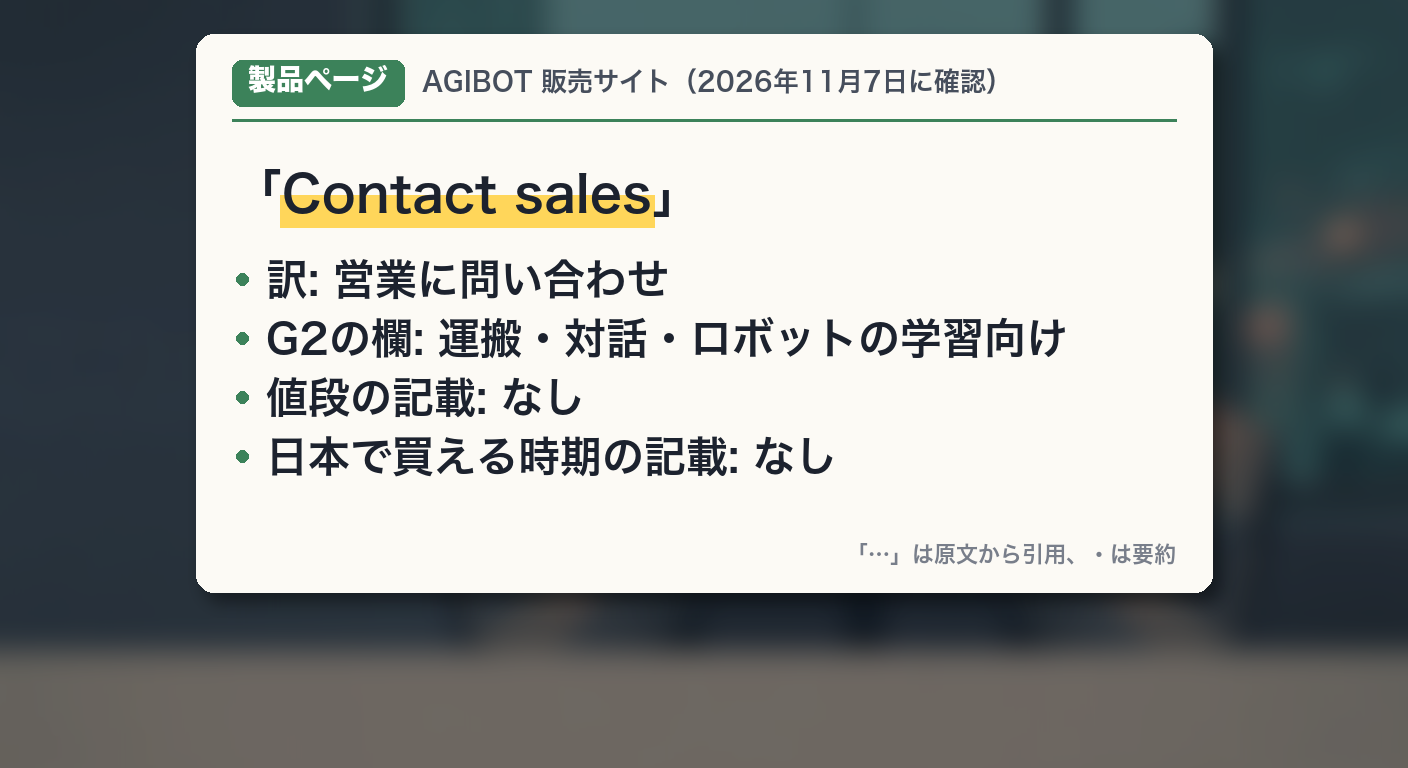
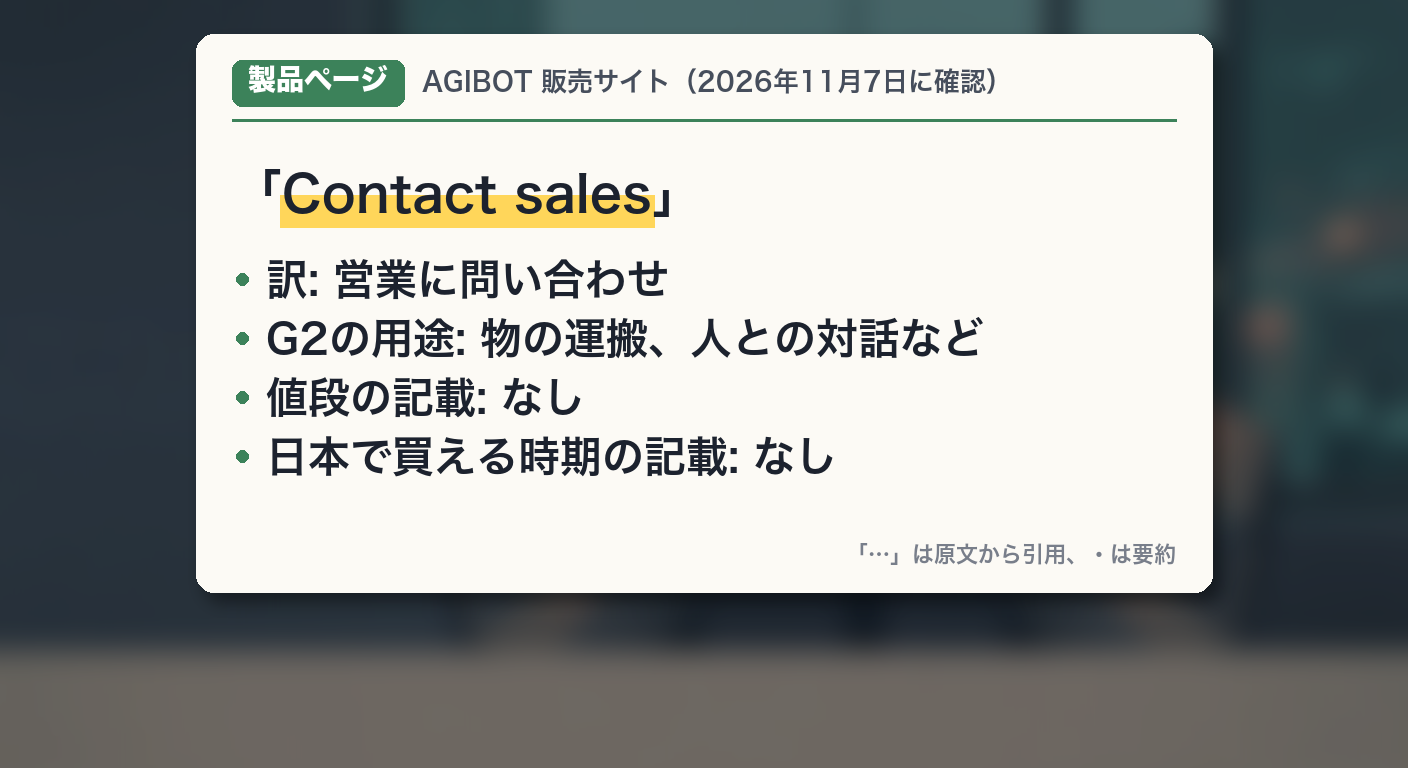
kl053: 初見レビュー合格（2周）、パッケージ評価、進捗

Changed region(s): [[0.25, 0.4062, 0.75, 0.4688]]

diff --git a/script_prep/kl053.md b/script_prep/kl053.md
@@ -173,3 +173,24 @@
 14. 同じ台詞の2回: ○（上の12で解消。「目指す」の言い切りは無い）
 15. 1台詞に3つ以上の話: 直した（S07 の件数と合格を分け、S08 の審査役の3つの試しを2行に分けて間に大輔の相づち）。S14 行9（大輔の理由）は壁2つ＋手応え＋仕組みで長いが、判定の理由をひとまとまりで言う必要があり、初見レビューで見てもらう
 16. 足した台詞が通じるか・資料の範囲: ○（「人と比べた数字も出てこない」は C を確認、「夜に働く人を集めるのに苦労している店は多い」は「資料の外の話だけど」と明示）
+
+## 14. 初見レビュー1周目を受けた直し（2026-11-07、レビュー `/private/tmp/claude-503/-Users-claude-kagaku-life/61240068-1c9b-44cb-b6a8-91cc7a14e81b/scratchpad/kl053_beginner_review_r1.md`、致命的0・直す5・できれば9）
+
+直したシーン: S03（予告）、S05、S06、S07、S08、S09、S10、S11、S12、S13（台詞とカード）、S14、Shorts 3カット目
+
+- 直す(1) 審査役の矛盾: S07 の「評価をしたのが誰かは書いていない」を消し、S08 冒頭を「報告には、審査役の2人が〜試した、ともある。その2人がどこの誰かも、最後の評価を誰がしたかも、書いていない」に（原典: 「Two evaluators also conducted rounds of practical tests」。最終評価をした者は書いていない）
+- 直す(2) 「催し」: 「AGIBOTが自分で開いた、新しい技術を見せる催しの、最後の出し物。会社の見せ場でもある」（原典: 「conclusion of AGIBOT's AI WAVE technology showcase」）
+- 直す(3) 沙織の認め方: S07 を「基準5つ → 結果4台合格・2台は一部未達 → 沙織『その2台は途中で止まったの？』→ 大輔『報告にあるのは、基準の一部を満たせなかった、ということだけ。止まったのか、出来が足りなかったのかは、書いていない』→ 沙織『少なくとも4台は〜合格した。読み違いだった』」に。S14 の沙織の振り返りもそろえた
+- 直す(4) 「そこは早かった」→「その1年は、見込みが早すぎた」
+- 直す(5) 出来の比率: 「僕らの例で言うと、人が10箱並べる間に、ロボがきちんと8箱並べたら、0.8」（たとえは二人のもの、と明示）。「人で言うとどれくらい？」には S11 の12件の直後に沙織「人の店員が一時間に何件こなすかは、報告に無い。だから、この12件が多いか少ないかは、まだ言えない」
+- できれば(6) 反映: 「ロボは合わせて60時間働いて、基準に直すと48時間ぶん。基準を人にすれば、人の8割の働き」
+- できれば(8) 反映: 「ならす」→「平均すると」
+- できれば(9) 反映: 評価の基準5つを2つずつ区切って読む
+- できれば(10) 反映: S05 の資料4つの読み上げをやめ「全部AGIBOT自身が出したもの。外の人が確かめた資料は、まだ無い」に。各資料は使う場面で「AGIBOTが出した、コンビニの試しの報告」(S06)「発表会の後に出た、AGIBOTの解説記事」(S09)「AGIBOTの販売サイト」(S12) と紹介
+- できれば(11) 反映: 「推測で埋めずに、まだ出ていない、とはっきり言う」
+- できれば(12) 反映: 「工場で動いているのは、G2を含む、同じ系列のロボ」（原典「broader G2 family」）。カードの「ロボットの学習向け」→「G2の用途: 物の運搬、人との対話など」
+- できれば(13) 反映: 予告「でも、最後の評価で合格は6台中4台。値段もまだ出ていない。」（Shorts 3カット目も同文にして音声流用を保つ）
+- できれば(14) 反映: S08 の hope「難しい手先の作業は、まだ残ってる。それでも、〜ひととおり受け持つところまで来た」
+- 総合(d) のコーラ・ガム・通路の3つを1つに: 一部反映（コーラを主に言い、残り2つは1行にまとめた。店の人が思い浮かべやすい具体例のため全部は削らない）。ワーケンの式の説明短縮は、(5) の具体例で代えた
+- 教訓「書いていない、の直後にその資料の別の中身を紹介しない」: 全文に当てた。S08「一つずつの結果は書いていない。それより、報告自身が〜」を「報告に出ている結果は、合格した台数だけ。一つずつの試しの結果は、書いていない」→ 大輔の問い「じゃあ、何が難しかったのかは？」を挟んでから手先の話へ。S07・S08・S10・S11・S13 の「書いていない／無い」の直後は、問いを挟むか「でも、〜は出てる」と対比で示す形
+- `kl_fact_check.py` 再実行: ok=3 caution=0 high_risk=0、資料カード3枚とも原文一致、健康の語り方 ok
